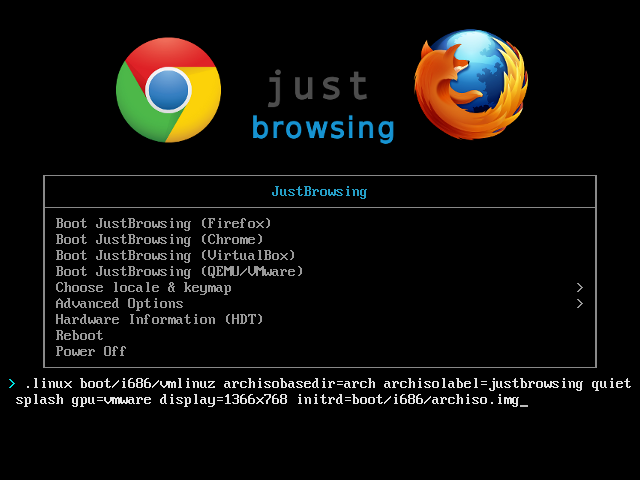
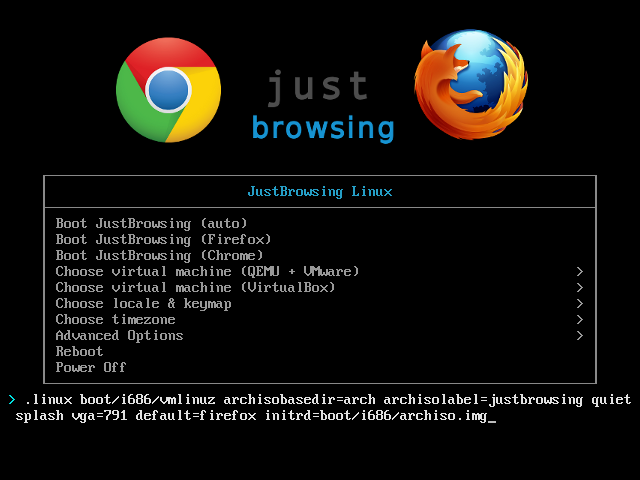
Update parameters

Changed region(s): [[0.0, 0.4375, 1.0, 0.875], [0.375, 0.375, 0.625, 0.4062]]

diff --git a/advanced/index.html b/advanced/index.html
@@ -286,16 +286,21 @@ function googleTranslateElementInit() {
 <tr><th class="tab1">Parameter</th><th class="tab1">Description</th></tr>
 <tr class="tab1"><td class="tab1">default=firefox</td><td class="tab1">Sets default browser to Mozilla Firefox</td></tr>
 <tr class="tab1"><td class="tab1">default=chrome</td><td class="tab1">Sets default browser to Google Chrome</td></tr>
-<tr class="tab1"><td class="tab1">nomodeset</td><td class="tab1">Disables kernel mode setting (needed for some GPUS)</td></tr>
 <tr class="tab1"><td class="tab1">display=1024x768</td><td class="tab1">Forces resolution of 1024x768</td></tr>
 <tr class="tab1"><td class="tab1">display=1366x768</td><td class="tab1">Forces resolution of 1366x768</td></tr>
 <tr class="tab1"><td class="tab1">gpu=vmware</td><td class="tab1">Enables VMware GPU driver</td></tr>
 <tr class="tab1"><td class="tab1">gpu=vbox</td><td class="tab1">Enables Virtualbox GPU driver</td></tr>
+<tr class="tab1"><td class="tab1">copytoram=y</td><td class="tab1">Copy entire ISO into RAM</td></tr>
+<tr class="tab1"><td class="tab1">clean=true</td><td class="tab1">Use fresh/untouched browser profiles</td></tr>
 <tr class="tab1"><td class="tab1">locale=de</td><td class="tab1">Set browser locale to German</td></tr>
 <tr class="tab1"><td class="tab1">locale=en_US</td><td class="tab1">Set browser locale to English US</td></tr>
 <tr class="tab1"><td class="tab1">keymap=us</td><td class="tab1">Set keymap to USA layout</td></tr>
 <tr class="tab1"><td class="tab1">keymap=is</td><td class="tab1">Set keymap to Iceland layout</td></tr>
-<tr class="tab1"><td class="tab1">clean=true</td><td class="tab1">Use fresh/untouched browser profiles</td></tr>
+<tr class="tab1"><td class="tab1">nomodeset</td><td class="tab1">Disables kernel mode setting (needed for some GPUS)</td></tr>
+<tr class="tab1"><td class="tab1">nouveau.modeset=0</td><td class="tab1">Needed for some Nvidia GPUs</td></tr>
+<tr class="tab1"><td class="tab1">url=http://ddg.gg</td><td class="tab1">Sets homepage to DuckDuckGo</td></tr>
+<tr class="tab1"><td class="tab1">zone=America/New_York</td><td class="tab1">Sets timezone to New York, USA (EST)</td></tr>
+<tr class="tab1"><td class="tab1">zone=Europe/Rome</td><td class="tab1">Sets timezone to Rome, Italy (CET)</td></tr>
 </table></div>
 <br><br>
 </div>
